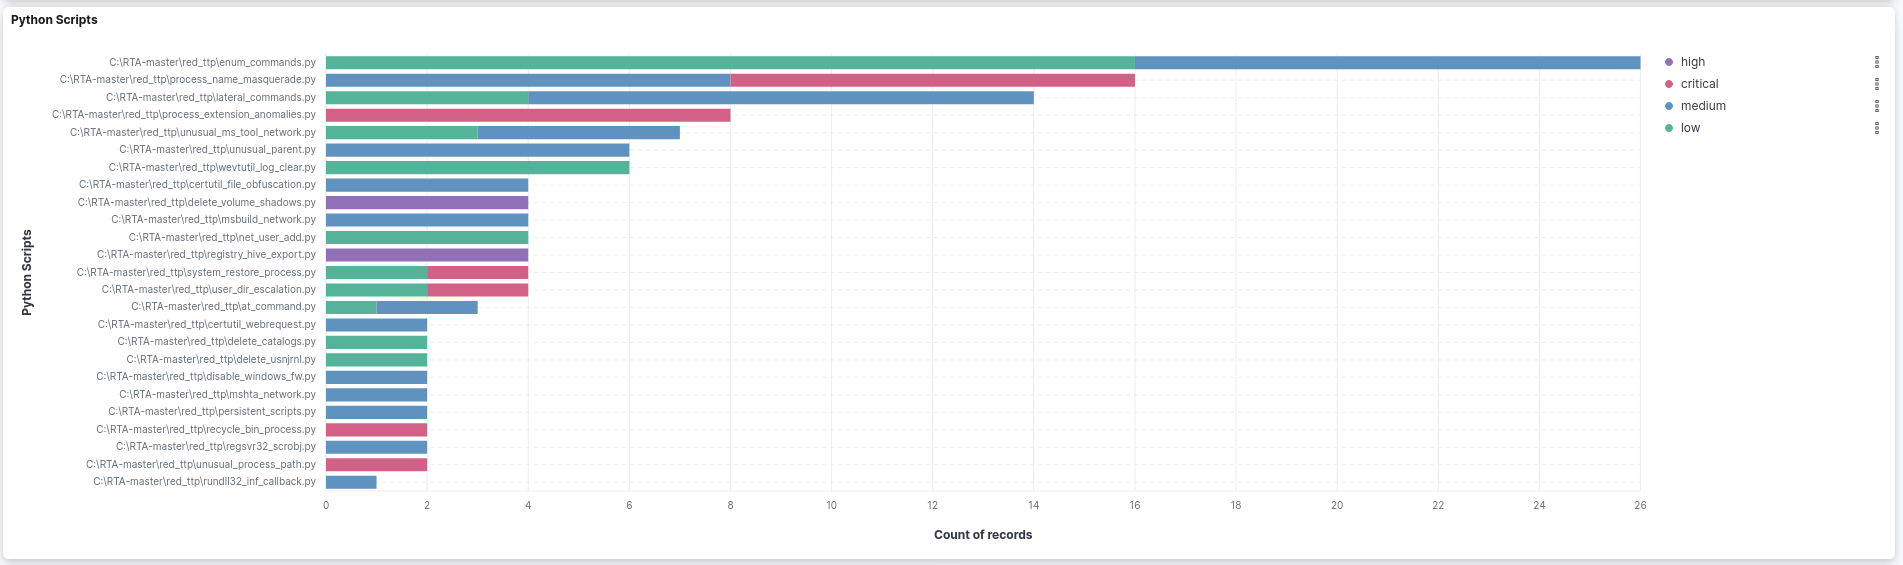
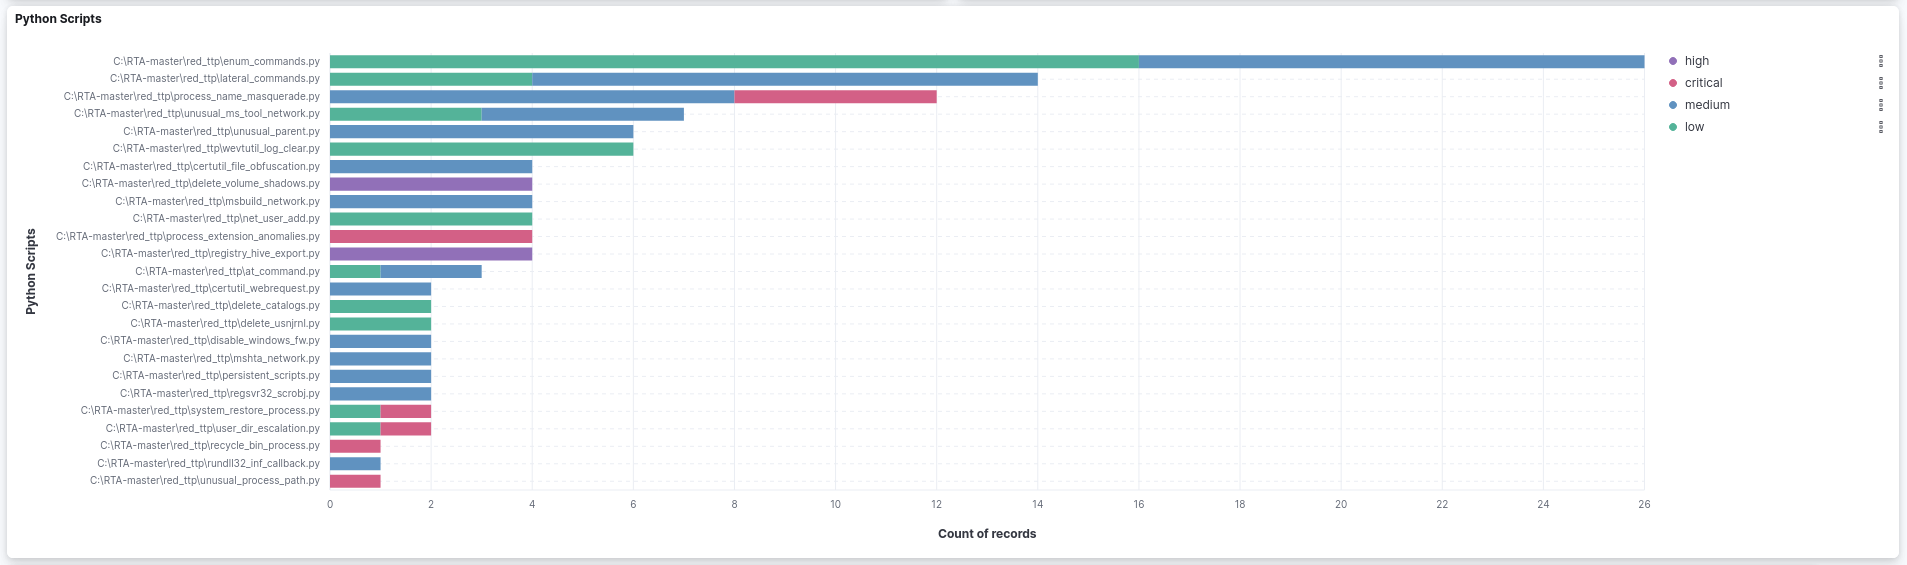
updated files

diff --git a/README.md b/README.md
@@ -6,9 +6,9 @@
 - Configured Elastic 8.8:
   - Elastic Stack: Elasticsearch and Kibana (Web UI).
   - Integrations: Fleet Server, Elastic Agent, Elastic Defend, System, and Windows.
-- Simulated two scenarios:
-  - First Scenario: EICAR Malware Test.
-  - Second Scenario: MITRE ATT&CK Test.
+- Simulated two tests:
+  - EICAR Malware Test.
+  - MITRE ATT&CK Test with Red Team Automation (RTA).
 
 # Highlights
 
@@ -102,7 +102,12 @@ EICAR downloaded and extracted files.
 ### 2.2.3 - Elastic Security Alerts
 <img src="images/2/2.3-elastic_security_alerts.png" title="Security Alerts"/>
 
-## 3 - Second Scenario: MITRE ATT&CK Test.
+## 3 - MITRE ATT&CK Test with Red Team Automation (RTA)
+[RTA](https://github.com/endgameinc/RTA) provides a framework of scripts designed to allow blue teams to test their detection capabilities against malicious tradecraft, modeled after [MITRE ATT&CK](https://attack.mitre.org/wiki/ATT&CK_Matrix).
+
+RTA is composed of python scripts that generate evidence of over 50 different ATT&CK tactics, as well as a compiled binary application that performs activities such as file timestopping, process injections, and beacon simulation as needed.
+
+Where possible, RTA attempts to perform the actual malicious activity described. In other cases, the RTAs will emulate all or parts of the activity. For example, some lateral movement will by default target local host (though with parameters typically allow for multi-host testing). In other cases, executables such as cmd.exe or python.exe will be renamed to make it appeas as if a Windows binary is doing non-standard activities..
 
 ### 3.1 - Alerts Over Time
 All the 277 signals detected by 45 distinct rules.
@@ -121,7 +126,7 @@ Count of all the Security SIEM detection rules used to create the alerts.
 ### 3.3.1 - Detection Rules Techniques and Tactics
 <img src="images/3/3.1-rules_tech_tact.png" title="Rules Techiniques Tactics"/>
 
-### 3.3.2 - Command Line of Process and Parent Process per Rule
+### 3.3.2 - Detection Signals in Time Order
 <img src="images/3/3.2-processes_per_rule.png" title="Processes per Rule"/>
 
 
